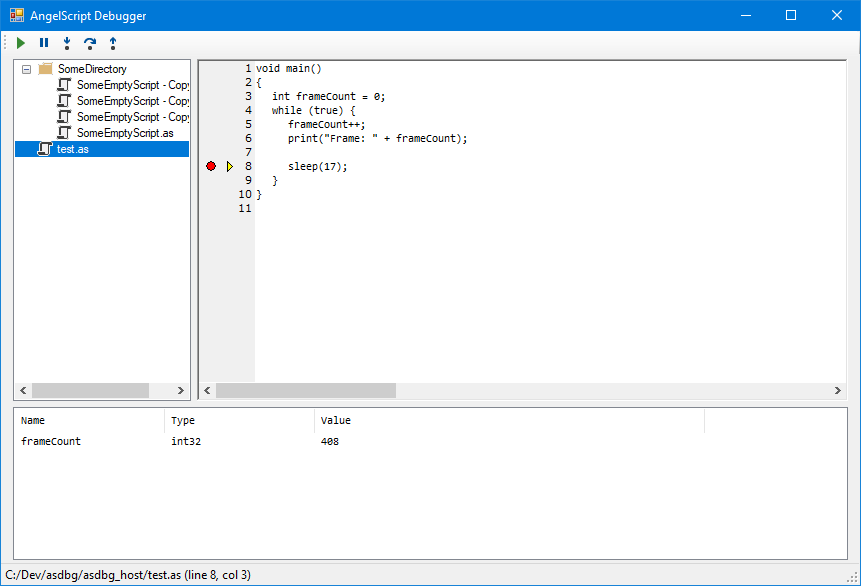
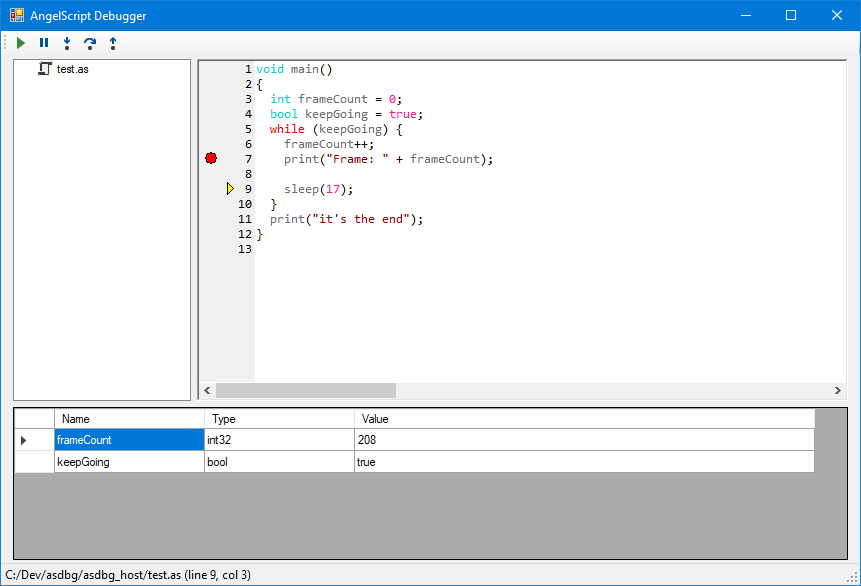
Add a lexer for basic syntax highlighting

Changed region(s): [[0.0, 0.6451, 0.9965, 0.9829], [0.0, 0.0922, 0.5738, 0.43], [0.302, 0.0922, 0.3926, 0.1229]]

diff --git a/asdbg_ui/AngelscriptLexer.cs b/asdbg_ui/AngelscriptLexer.cs
@@ -1,0 +1,143 @@
+using ScintillaNET;
+using System;
+using System.Collections.Generic;
+using System.Linq;
+using System.Text;
+using System.Text.RegularExpressions;
+using System.Threading.Tasks;
+
+namespace asdbg_ui
+{
+	public class AngelscriptLexer
+	{
+		public const int StyleDefault = 0;
+		public const int StyleIdentifier = 1;
+		public const int StyleConstant = 2;
+		public const int StyleString = 3;
+		public const int StyleStorageModifier = 4;
+		public const int StyleStorageType = 5;
+		public const int StyleVariable = 6;
+		public const int StyleControl = 7;
+
+		private const int STATE_UNKNOWN = 0;
+		private const int STATE_IDENTIFIER = 1;
+		private const int STATE_NUMBER = 2;
+		private const int STATE_STRING = 3;
+
+		private HashSet<string> keywordsStorageModifier;
+		private HashSet<string> keywordsStorageType;
+		private HashSet<string> keywordsConstant;
+		private HashSet<string> keywordsVariable;
+		private HashSet<string> keywordsControl;
+
+		public void Style(Scintilla scintilla, int startPos, int endPos)
+		{
+			// Back up to the line start
+			var line = scintilla.LineFromPosition(startPos);
+			startPos = scintilla.Lines[line].Position;
+
+			var length = 0;
+			var state = STATE_UNKNOWN;
+
+			// Start styling
+			scintilla.StartStyling(startPos);
+			while (startPos < endPos) {
+				var c = (char)scintilla.GetCharAt(startPos);
+
+				REPROCESS:
+				switch (state) {
+					case STATE_UNKNOWN:
+						if (c == '"') {
+							// Start of "string"
+							scintilla.SetStyling(1, StyleString);
+							state = STATE_STRING;
+						} else if (Char.IsDigit(c)) {
+							state = STATE_NUMBER;
+							goto REPROCESS;
+						} else if (Char.IsLetter(c)) {
+							state = STATE_IDENTIFIER;
+							goto REPROCESS;
+						} else {
+							// Everything else
+							scintilla.SetStyling(1, StyleDefault);
+						}
+						break;
+
+					case STATE_STRING:
+						if (c == '"') {
+							length++;
+							scintilla.SetStyling(length, StyleString);
+							length = 0;
+							state = STATE_UNKNOWN;
+						} else {
+							length++;
+						}
+						break;
+
+					case STATE_NUMBER:
+						if (Char.IsDigit(c) || (c >= 'a' && c <= 'f') || (c >= 'A' && c <= 'F') || c == 'x') {
+							length++;
+						} else {
+							scintilla.SetStyling(length, StyleConstant);
+							length = 0;
+							state = STATE_UNKNOWN;
+							goto REPROCESS;
+						}
+						break;
+
+					case STATE_IDENTIFIER:
+						if (Char.IsLetterOrDigit(c)) {
+							length++;
+						} else {
+							var style = StyleIdentifier;
+							var identifier = scintilla.GetTextRange(startPos - length, length);
+
+							if (keywordsStorageModifier.Contains(identifier)) {
+								style = StyleStorageModifier;
+							} else if (keywordsStorageType.Contains(identifier)) {
+								style = StyleStorageType;
+							} else if (keywordsConstant.Contains(identifier)) {
+								style = StyleConstant;
+							} else if (keywordsVariable.Contains(identifier)) {
+								style = StyleVariable;
+							} else if (keywordsControl.Contains(identifier)) {
+								style = StyleControl;
+							}
+
+							scintilla.SetStyling(length, style);
+							length = 0;
+							state = STATE_UNKNOWN;
+							goto REPROCESS;
+						}
+						break;
+				}
+
+				startPos++;
+			}
+		}
+
+		public AngelscriptLexer()
+		{
+			keywordsStorageModifier = new HashSet<string>(new[] {
+				"get", "in", "inout", "out", "override", "set", "private",
+				"public", "const", "default", "final", "shared", "mixin"
+			});
+			keywordsStorageType = new HashSet<string>(new[] {
+				"enum", "void", "bool", "typedef", "funcdef", "int", "int8",
+				"int16", "int32", "int64", "uint", "uint8", "uint16", "uint32",
+				"uint64", "string", "ref", "array", "double", "float", "auto",
+				"dictionary"
+			});
+			keywordsConstant = new HashSet<string>(new[] {
+				"null", "true", "false"
+			});
+			keywordsVariable = new HashSet<string>(new[] {
+				"this", "super"
+			});
+			keywordsControl = new HashSet<string>(new[] {
+				"for", "in", "break", "continue", "while", "do", "return", "if",
+				"else", "case", "switch", "namespace"
+			});
+		}
+	}
+}

diff --git a/asdbg_ui/FormMain.cs b/asdbg_ui/FormMain.cs
@@ -19,6 +19,8 @@ namespace asdbg_ui
 		private const int MARKER_CURRENTLINE = 0;
 		private const int MARKER_BREAKPOINT = 1;
 
+		private AngelscriptLexer m_lexer;
+
 		private TcpClient m_client;
 
 		private NetworkStream m_ns;
@@ -39,7 +41,21 @@ namespace asdbg_ui
 		{
 			InitializeComponent();
 
-			editor.Styles[0].Font = "Consolas";
+			m_lexer = new AngelscriptLexer();
+
+			foreach (var style in editor.Styles) {
+				style.Font = "Consolas";
+				style.Size = 10;
+			}
+			editor.Styles[AngelscriptLexer.StyleIdentifier].ForeColor = Color.DimGray;
+			editor.Styles[AngelscriptLexer.StyleConstant].ForeColor = Color.DeepPink;
+			editor.Styles[AngelscriptLexer.StyleString].ForeColor = Color.DarkRed;
+			editor.Styles[AngelscriptLexer.StyleStorageModifier].ForeColor = Color.DarkBlue;
+			editor.Styles[AngelscriptLexer.StyleStorageType].ForeColor = Color.DarkTurquoise;
+			editor.Styles[AngelscriptLexer.StyleVariable].ForeColor = Color.DarkBlue;
+			editor.Styles[AngelscriptLexer.StyleControl].ForeColor = Color.Red;
+
+			editor.TabWidth = 2;
 
 			foreach (var m in editor.Margins) {
 				m.Type = MarginType.BackColor;
@@ -351,6 +367,11 @@ namespace asdbg_ui
 
 			m_writer.Write((ushort)value.Length);
 			m_writer.Write(Encoding.UTF8.GetBytes(value));
+		}
+
+		private void editor_StyleNeeded(object sender, StyleNeededEventArgs e)
+		{
+			m_lexer.Style(editor, editor.GetEndStyled(), e.Position);
 		}
 	}
 }

diff --git a/asdbg_ui/FormMain.Designer.cs b/asdbg_ui/FormMain.Designer.cs
@@ -75,6 +75,7 @@
 			this.editor.Size = new System.Drawing.Size(651, 342);
 			this.editor.TabIndex = 2;
 			this.editor.MarginClick += new System.EventHandler<ScintillaNET.MarginClickEventArgs>(this.editor_MarginClick);
+			this.editor.StyleNeeded += new System.EventHandler<ScintillaNET.StyleNeededEventArgs>(this.editor_StyleNeeded);
 			// 
 			// toolStrip1
 			// 
